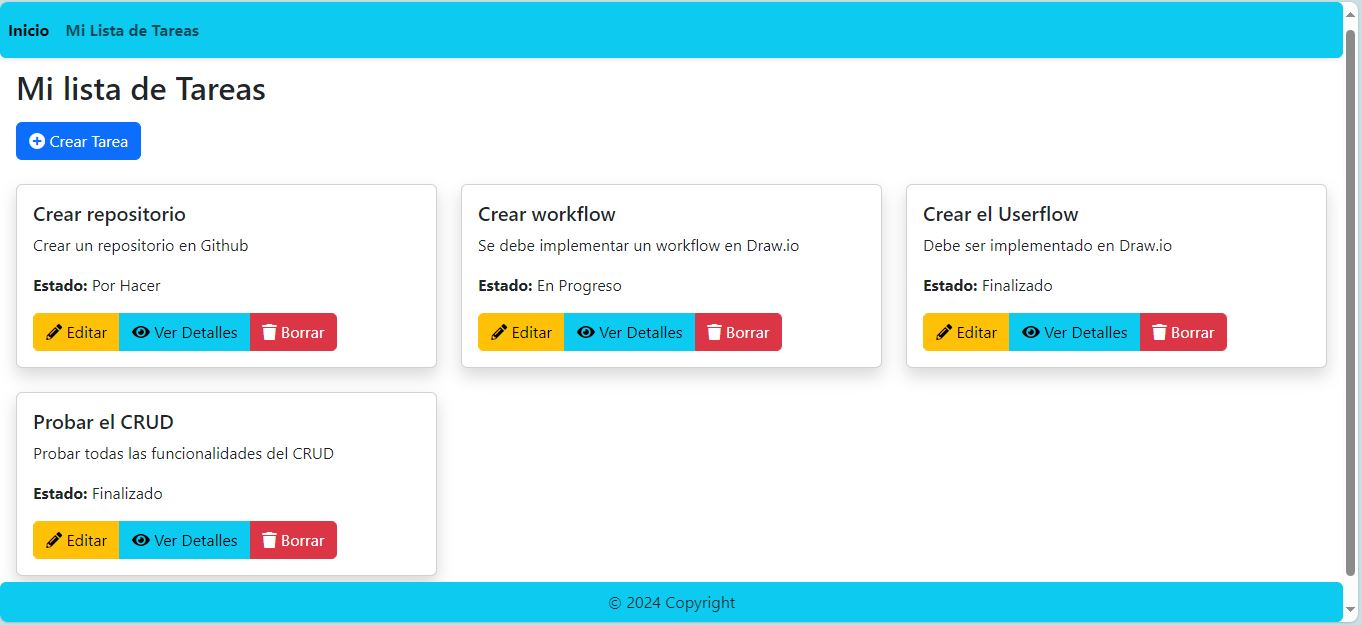
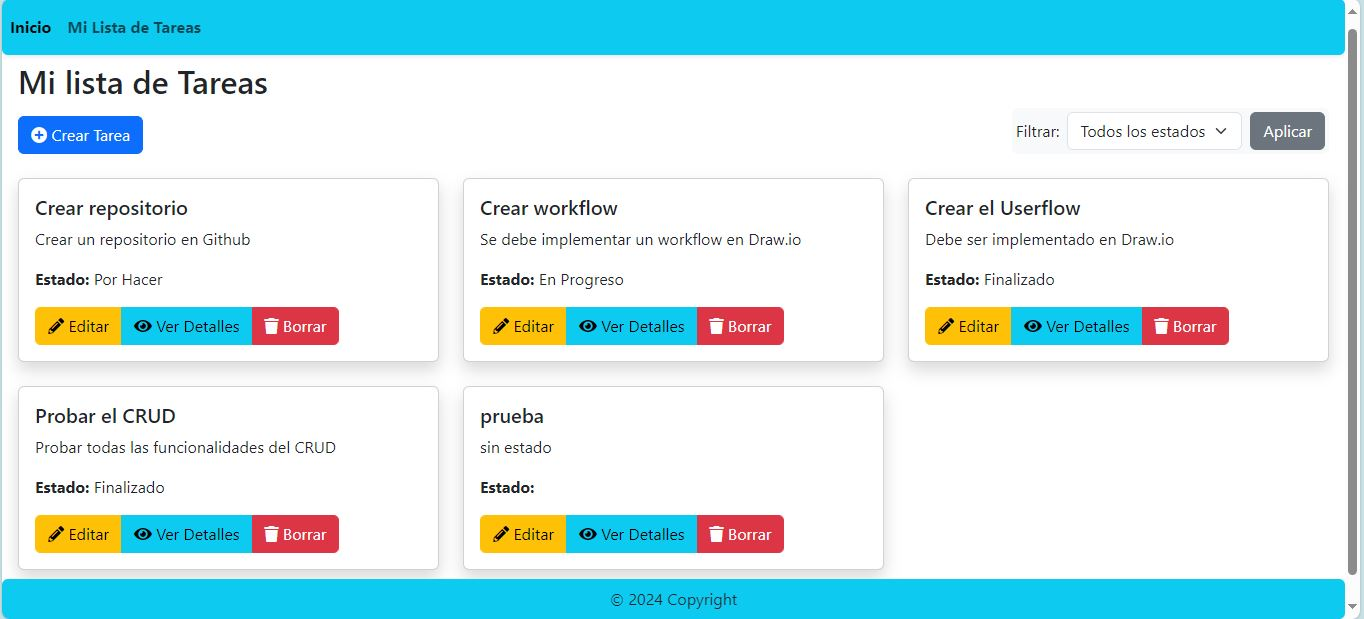
implement the filter for the task

diff --git a/public/css/index.css b/public/css/index.css
@@ -1,5 +1,5 @@
 .card:hover {
-  background-color: #f8f9fa; /* Cambia esto según tus preferencias */
+  background-color: #f8f9fa;
   transform: scale(1.05);
   transition: transform 0.3s ease-in-out;
 }

diff --git a/app/views/index.php b/app/views/index.php
@@ -2,36 +2,50 @@
 
 <section class="mt-5 mx-3 mb-5">
     <h2 class="pt-4">Mi lista de Tareas</h2>
-    <form action="index.php?action=create" method="POST">
-        <button type="submit" class="btn btn-primary mt-2 ">
+    <div class="d-flex justify-content-between align-items-center flex-wrap">
+        
+        <a class="btn btn-primary mt-2" href="index.php?action=create">
             <i class="fa fa-plus-circle" aria-hidden="true"></i>
             Crear Tarea
-        </button>
-    </form>
+        </a>
+
+        <form action="index.php?action=filter" method="POST" class="d-flex align-items-center align-self-center bg-light p-1 rounded gap-2">
+            <label for="filter" >Filtrar:</label>
+            <select name="filter" id="filter" class="form-select">
+                <option value="" >Todos los estados</option>
+                <option value="Por Hacer" <?= ($_GET['filter'] ?? '') === 'Por Hacer' ? 'selected' : '' ?>>Por Hacer</option>
+                <option value="En Progreso" <?= ($_GET['filter'] ?? '') === 'En Progreso' ? 'selected' : '' ?>>En Progreso</option>
+                <option value="Finalizado" <?= ($_GET['filter'] ?? '') === 'Finalizado' ? 'selected' : '' ?>>Finalizado</option>
+            </select>
+
+            <button class="btn btn-secondary " type="submit">Aplicar</button>
+        </form>
+    </div>
+
     <div class="row row-cols-1 row-cols-md-2 row-cols-lg-3 mt-4">
-    <?php if (!empty($tasks)) : ?>
-        <?php foreach ($tasks as $task) : ?>
-            <div class="col mb-4">
-                <div class="card shadow hover">
-                    <div class="card-body">
-                        <h5 class="card-title"><?php echo $task['title']; ?></h5>
-                        <p class="card-text"><?php echo $task['task_description']; ?></p>
-                        <p class="card-text"><strong>Estado:</strong> <?php echo $task['task_state']; ?></p>
-                        <div class="btn-group ">
-                            <a class="btn btn-warning" href="index.php?action=edit&id=<?php echo $task['id_task']; ?>">
-                                <i class="fas fa-pencil-alt" aria-hidden="true"></i> Editar
-                            </a>
-                            <a class="btn btn-info" href="index.php?action=show&id=<?php echo $task['id_task']; ?>">
-                                <i class="fa fa-eye"></i> Ver Detalles
-                            </a>
-                            <a class="btn btn-danger" href="index.php?action=delete&id=<?php echo $task['id_task']; ?>">
-                                <i class="fa fa-trash"></i> Borrar
-                            </a>
+        <?php if (!empty($tasks)) : ?>
+            <?php foreach ($tasks as $task) : ?>
+                <div class="col mb-4">
+                    <div class="card shadow hover">
+                        <div class="card-body">
+                            <h5 class="card-title"><?php echo $task['title']; ?></h5>
+                            <p class="card-text"><?php echo $task['task_description']; ?></p>
+                            <p class="card-text"><strong>Estado:</strong> <?php echo $task['task_state']; ?></p>
+                            <div class="btn-group ">
+                                <a class="btn btn-warning" href="index.php?action=edit&id=<?php echo $task['id_task']; ?>">
+                                    <i class="fas fa-pencil-alt" aria-hidden="true"></i> Editar
+                                </a>
+                                <a class="btn btn-info" href="index.php?action=show&id=<?php echo $task['id_task']; ?>">
+                                    <i class="fa fa-eye"></i> Ver Detalles
+                                </a>
+                                <a class="btn btn-danger" href="index.php?action=delete&id=<?php echo $task['id_task']; ?>">
+                                    <i class="fa fa-trash"></i> Borrar
+                                </a>
+                            </div>
                         </div>
                     </div>
                 </div>
-            </div>
-        <?php endforeach; ?>
+            <?php endforeach; ?>
         <?php else : ?>
             <p>No hay tareas Registradas.</p>
         <?php endif; ?>

diff --git a/app/controllers/TaskController.php b/app/controllers/TaskController.php
@@ -33,30 +33,47 @@ class TaskController
         return $result;
     }
 
-    public function edit(){
+    public function edit()
+    {
         $id = $_GET['id'];
         $task = $this->taskModel->getTaskById($id);
         include_once __DIR__ . '/../views/edit.php';
     }
 
-    public function delete(){
+    public function delete()
+    {
         $id = $_GET['id'];
         $result = $this->taskModel->deleteTask($id);
         return $result;
     }
 
-    public function update(){
+    public function update()
+    {
         $id = $_GET['id'];
         $data = $_POST;
-        $result = $this->taskModel->updateTask($id,$data);
+        $result = $this->taskModel->updateTask($id, $data);
         return $result;
     }
 
-    public function show(){
+    public function show()
+    {
         $id = $_GET['id'];
         $task = $this->taskModel->getTaskById($id);
         include_once __DIR__ . '/../views/show.php';
     }
 
+    public function filter()
+    {
+        $filter = $_POST['filter'] ?? '';
+
+        if ($filter === 'Por Hacer') {
+            $tasks = $this->taskModel->getFilteredTasks($filter, true);
+        } elseif (!empty($filter)) {
+            $tasks = $this->taskModel->getFilteredTasks($filter,false);
+        } else {
+            $tasks = $this->taskModel->getAllTasks();
+        }
+
+        include_once __DIR__ . '/../views/index.php';
+    }
 }
- 

diff --git a/app/models/TaskModel.php b/app/models/TaskModel.php
@@ -89,5 +89,17 @@ class TaskModel
         }
     }
 
-    
+    public function getFilteredTasks($filter, $includeNullState = false)
+    {
+        if ($includeNullState) {
+            $query = "SELECT * FROM tasks WHERE task_state = ? OR task_state = '' ";
+        } else {
+            $query = "SELECT * FROM tasks WHERE task_state = ?";
+        }
+
+        $statement = $this->db->get_connection()->prepare($query);
+        $statement->execute([$filter]);
+        $result = $statement->fetchAll(PDO::FETCH_ASSOC);
+        return $result;
+    }
 }

diff --git a/index.php b/index.php
@@ -53,6 +53,10 @@ switch ($action) {
         $controller->show();
         break;
 
+    case 'filter':
+        $controller->filter();
+        break;
+
     default:
         // redirigir a la página principal en caso de error en la ruta
         header("Location: index.php?action=index");
